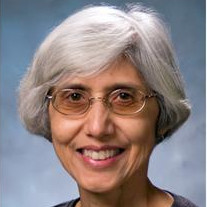
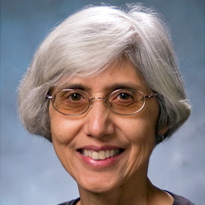
Add John and Eric
Use higher-quality image for Maya

diff --git a/_pages/team.md b/_pages/team.md
@@ -11,6 +11,8 @@ permalink: /team/
 
 {% include mugshot img="gokhale.jpg" alt="Maya Gokhale" caption="Maya Gokhale (co-PI)" %}
 
+{% include mugshot img="green.jpg" alt="Eric Green" %}
+
 {% include mugshot img="gupta.jpg" alt="Rinku Gupta" %}
 
 {% include mugshot img="iskra.jpg" alt="Kamil Iskra" %}
@@ -30,6 +32,8 @@ permalink: /team/
 {% include mugshot img="reis.jpg" alt="Valentin Reis" %}
 
 {% include mugshot img="rountree.jpg" alt="Barry Rountree" %}
+
+{% include mugshot img="tramm.jpg" alt="John Tramm" %}
 
 {% include mugshot img="yoshii.jpg" alt="Kazutomo Yoshii" %}
 
